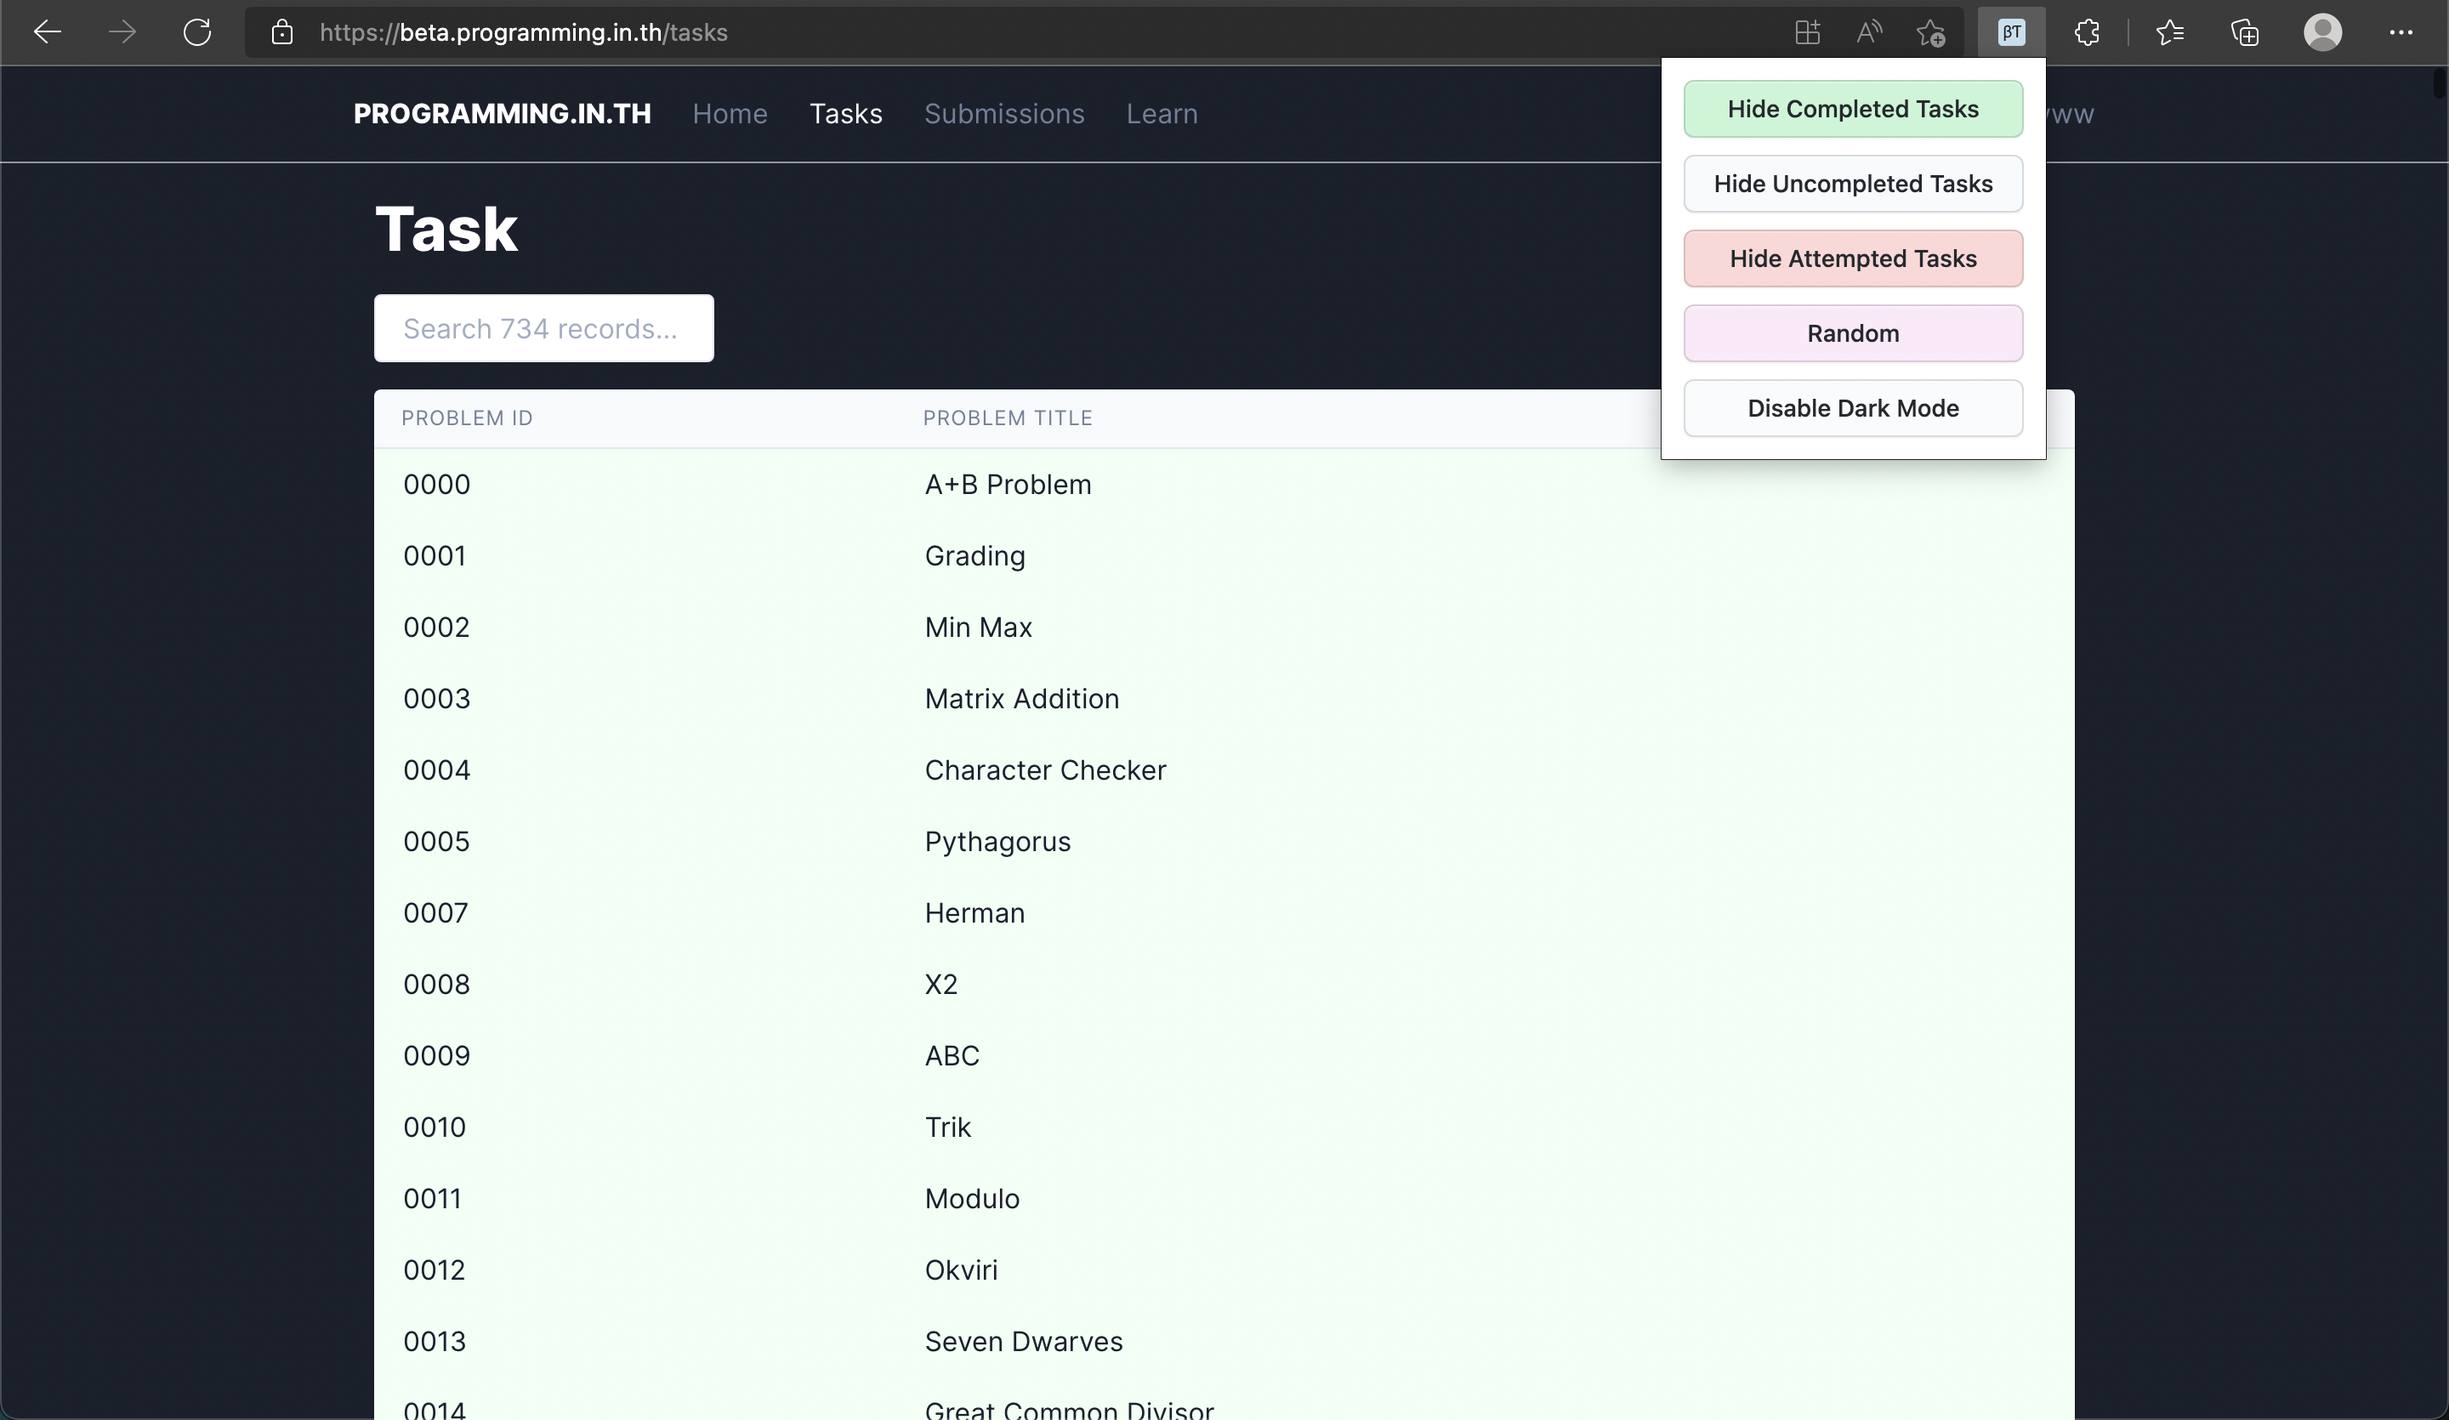
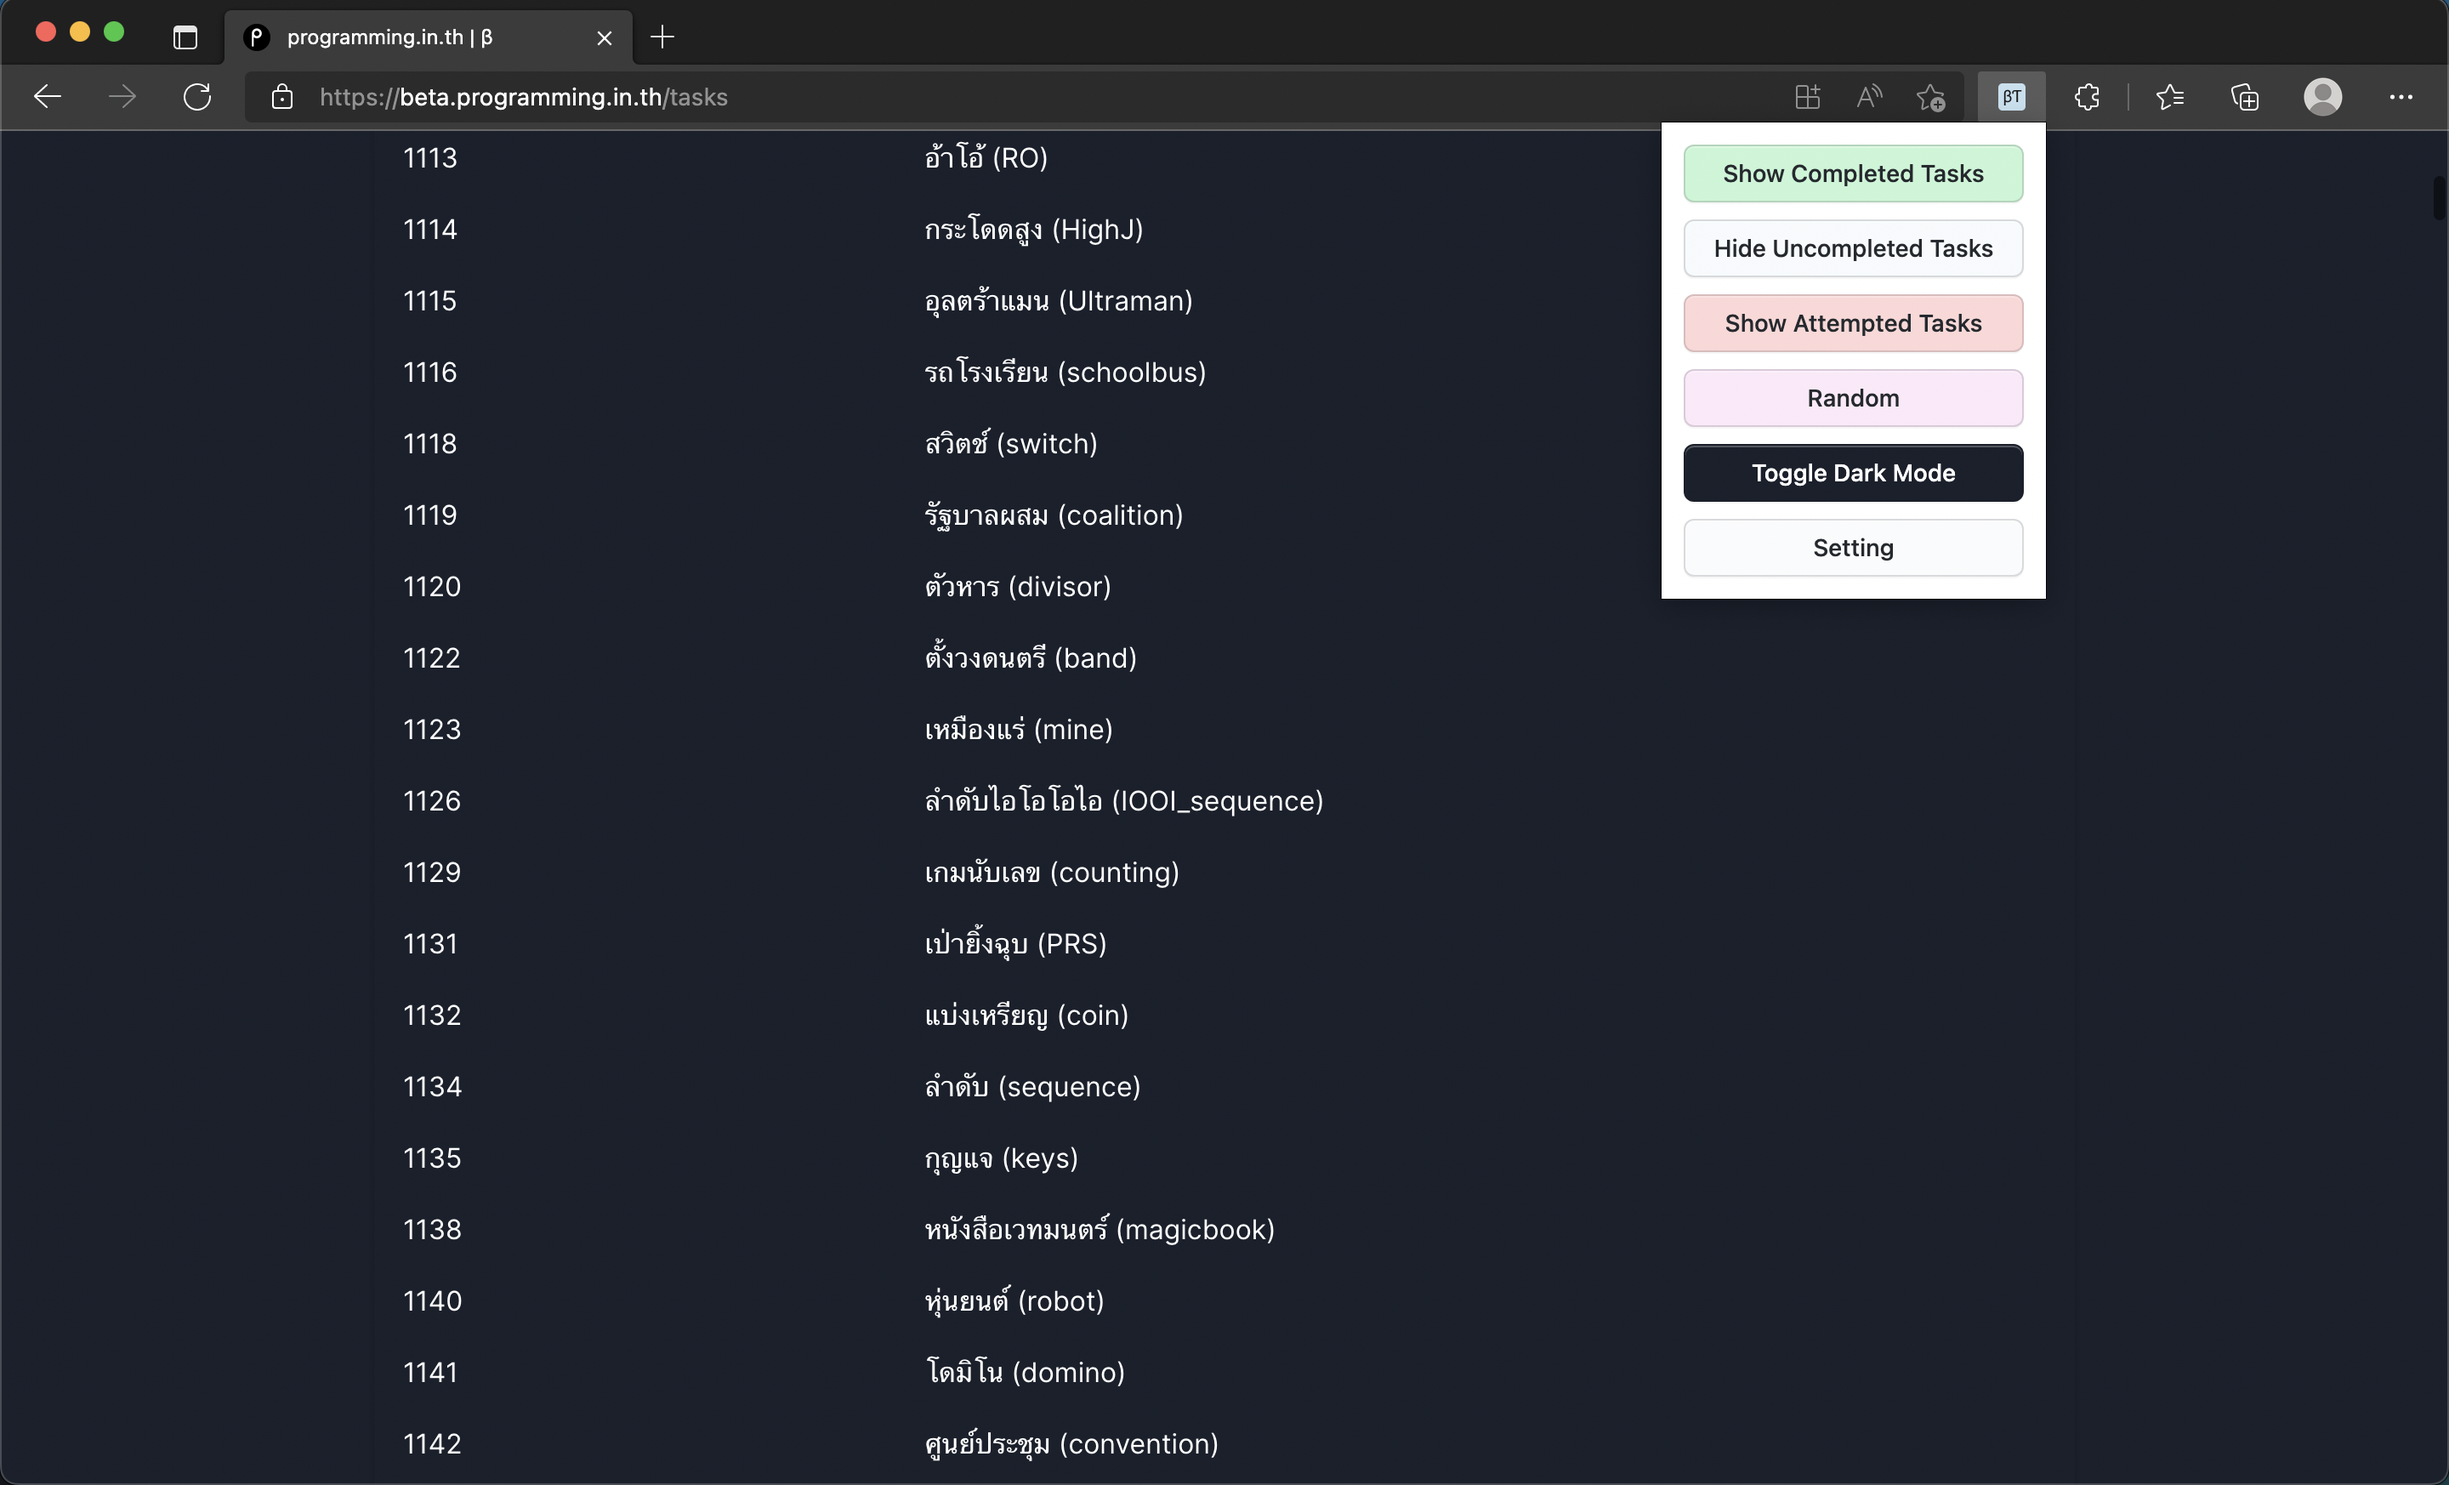
update

diff --git a/src/scripts/popup.js b/src/scripts/popup.js
@@ -13,6 +13,7 @@ const buttonIds = {
   uncompleted: "toggleIncomplete",
   attempted: "toggleAttempt",
   theme: "toggleTheme",
+  setting: "setting",
 };
 
 const updateTheme = (darkMode) => {
@@ -37,6 +38,11 @@ const updateTheme = (darkMode) => {
     "css-1lqajip",
     "css-1ee7pjs",
     "css-19lx80r",
+    "css-1ybytse",
+    "css-f5hoy5",
+    "css-1ma5mi3",
+    "css-1l725sd",
+    "css-o4mft6",
   ].forEach((x) => {
     elems = document.getElementsByClassName(x);
     for (let i = 0; i < elems.length; i++) {
@@ -163,6 +169,14 @@ let toggleThemeButton = document.getElementById(buttonIds.theme);
 toggleThemeButton.innerHTML = `Toggle Dark Mode`;
 toggleThemeButton.title = `Toggle Dark Mode`;
 toggleThemeButton.addEventListener("click", async () => await toggleTheme());
+
+let settingButton = document.getElementById(buttonIds.setting);
+settingButton.innerHTML = `Setting`;
+settingButton.title = `Setting`;
+settingButton.addEventListener(
+  "click",
+  async () => await chrome.runtime.openOptionsPage()
+);
 
 let randomIncompleteButton = document.getElementById("randomIncomplete");
 randomIncompleteButton.innerHTML = `Random`;

diff --git a/src/popup.html b/src/popup.html
@@ -9,7 +9,11 @@
     <button id="toggleIncomplete"></button>
     <button id="toggleAttempt"></button>
     <button id="randomIncomplete"></button>
-    <button id="toggleTheme"></button>
+    <div>
+      <button id="toggleTheme"></button>
+
+      <button id="setting"></button>
+    </div>
     <script src="./scripts/popup.js"></script>
   </body>
 </html>

diff --git a/src/styles/style.css b/src/styles/style.css
@@ -27,6 +27,7 @@ button {
   vertical-align: middle;
   white-space: nowrap;
   word-wrap: break-word;
+  max-width: 100%;
 }
 
 button:hover {
@@ -79,6 +80,11 @@ button#toggleAttempt {
 
 button#randomIncomplete {
   background-color: rgb(253, 233, 249);
+}
+
+button#toggleTheme {
+  background-color: rgb(26, 32, 44);
+  color: white;
 }
 
 .subSource {
